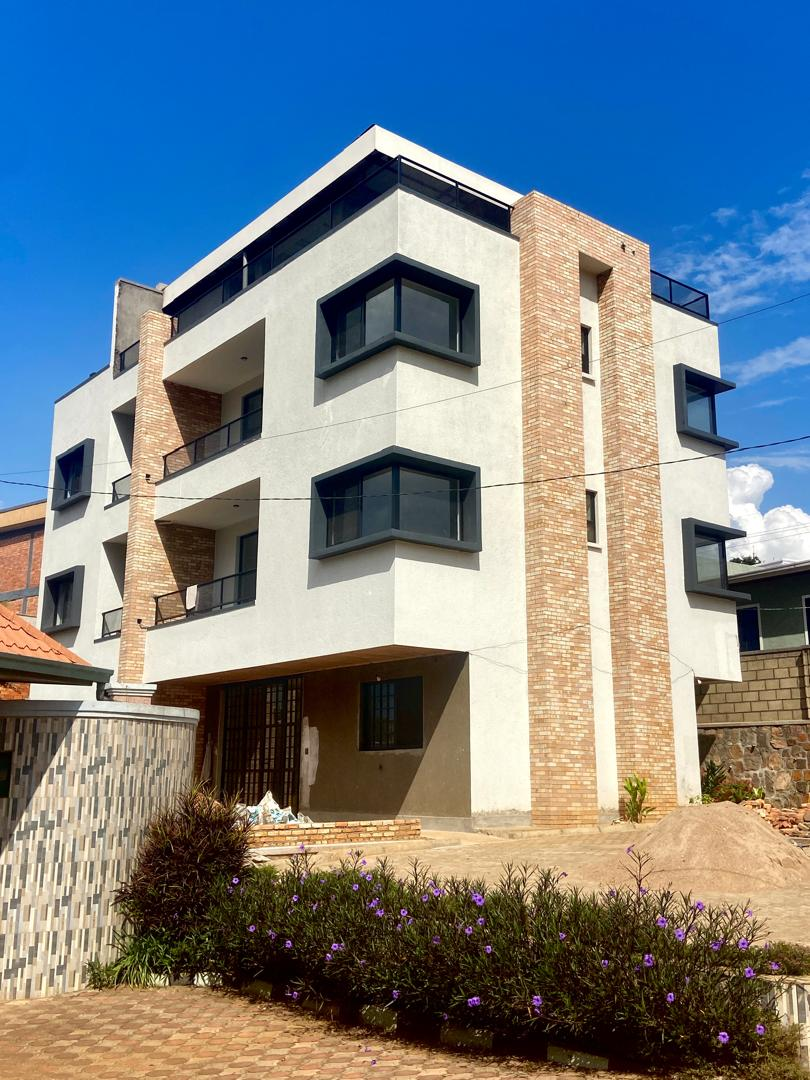
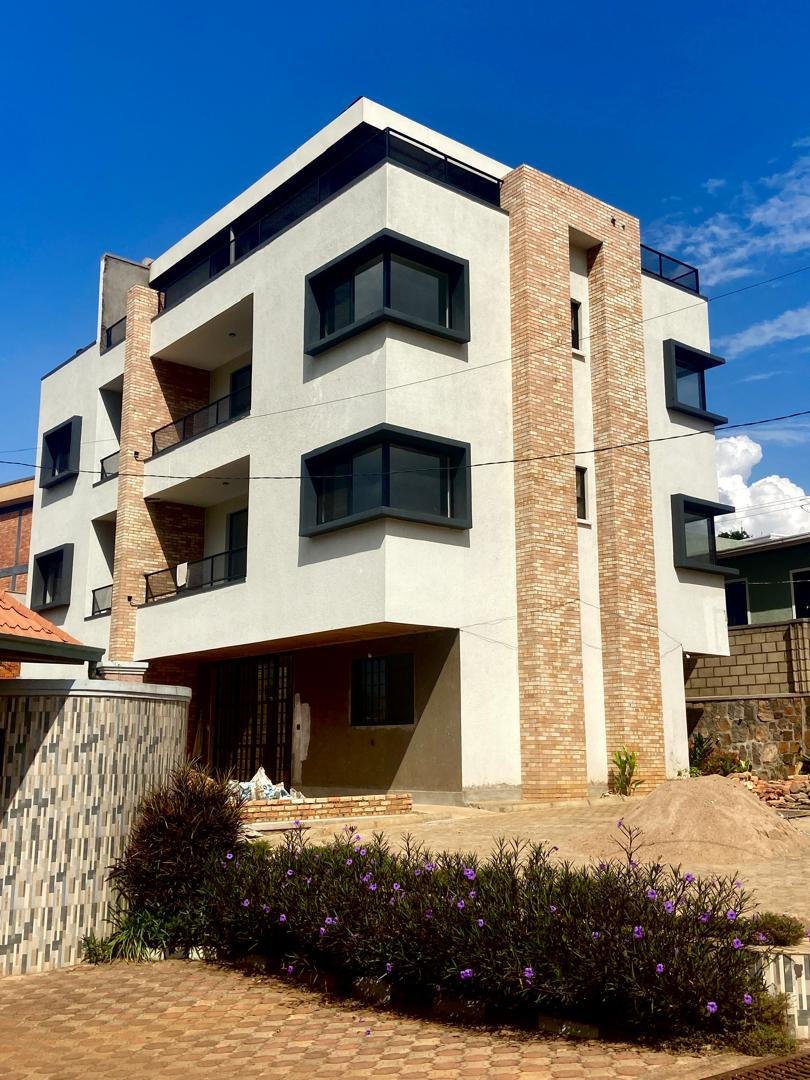
photos update

diff --git a/pages/about.tsx b/pages/about.tsx
@@ -1,0 +1,40 @@
+import React, { useEffect } from 'react'
+import Nav from '../components/nav'
+import Header from '../components/header'
+import DreamHome from '../components/dream-home'
+import About from '../components/about'
+import Partners from '../components/partners'
+import Service from '../components/service'
+import Footer from '../components/footer'
+import AccomplishedPojects from '../components/accomplished-projects'
+import OnGoingProjects from '../components/ongoing-projects'
+import { Divider } from '@chakra-ui/core'
+
+const AboutPage: React.FC = () => {
+  useEffect(() => {
+    const el = document.getElementById('about')
+    if (el) {
+      const navbar = document.querySelector('nav')
+      const navbarHeight = navbar ? navbar.clientHeight : 70
+      const targetPosition = el.getBoundingClientRect().top + window.pageYOffset - navbarHeight
+      window.scrollTo({ top: targetPosition, behavior: 'smooth' })
+    }
+  }, [])
+
+  return (
+    <>
+      <Nav />
+      <Header />
+      <DreamHome />
+      <About />
+      <Partners />
+      <Service />
+      <AccomplishedPojects />
+      <OnGoingProjects />
+      <Divider mt="24" />
+      <Footer />
+    </>
+  )
+}
+
+export default AboutPage

diff --git a/pages/footer.tsx b/pages/footer.tsx
@@ -1,0 +1,40 @@
+import React, { useEffect } from 'react'
+import Nav from '../components/nav'
+import Header from '../components/header'
+import DreamHome from '../components/dream-home'
+import About from '../components/about'
+import Partners from '../components/partners'
+import Service from '../components/service'
+import Footer from '../components/footer'
+import AccomplishedPojects from '../components/accomplished-projects'
+import OnGoingProjects from '../components/ongoing-projects'
+import { Divider } from '@chakra-ui/core'
+
+const FooterPage: React.FC = () => {
+  useEffect(() => {
+    const el = document.getElementById('footer')
+    if (el) {
+      const navbar = document.querySelector('nav')
+      const navbarHeight = navbar ? navbar.clientHeight : 70
+      const targetPosition = el.getBoundingClientRect().top + window.pageYOffset - navbarHeight
+      window.scrollTo({ top: targetPosition, behavior: 'smooth' })
+    }
+  }, [])
+
+  return (
+    <>
+      <Nav />
+      <Header />
+      <DreamHome />
+      <About />
+      <Partners />
+      <Service />
+      <AccomplishedPojects />
+      <OnGoingProjects />
+      <Divider mt="24" />
+      <Footer />
+    </>
+  )
+}
+
+export default FooterPage

diff --git a/pages/service.tsx b/pages/service.tsx
@@ -1,0 +1,40 @@
+import React, { useEffect } from 'react'
+import Nav from '../components/nav'
+import Header from '../components/header'
+import DreamHome from '../components/dream-home'
+import About from '../components/about'
+import Partners from '../components/partners'
+import Service from '../components/service'
+import Footer from '../components/footer'
+import AccomplishedPojects from '../components/accomplished-projects'
+import OnGoingProjects from '../components/ongoing-projects'
+import { Divider } from '@chakra-ui/core'
+
+const ServicePage: React.FC = () => {
+  useEffect(() => {
+    const el = document.getElementById('service')
+    if (el) {
+      const navbar = document.querySelector('nav')
+      const navbarHeight = navbar ? navbar.clientHeight : 70
+      const targetPosition = el.getBoundingClientRect().top + window.pageYOffset - navbarHeight
+      window.scrollTo({ top: targetPosition, behavior: 'smooth' })
+    }
+  }, [])
+
+  return (
+    <>
+      <Nav />
+      <Header />
+      <DreamHome />
+      <About />
+      <Partners />
+      <Service />
+      <AccomplishedPojects />
+      <OnGoingProjects />
+      <Divider mt="24" />
+      <Footer />
+    </>
+  )
+}
+
+export default ServicePage

diff --git a/pages/header.tsx b/pages/header.tsx
@@ -1,0 +1,38 @@
+import React, { useEffect } from 'react'
+import Nav from '../components/nav'
+import Header from '../components/header'
+import DreamHome from '../components/dream-home'
+import About from '../components/about'
+import Partners from '../components/partners'
+import Service from '../components/service'
+import Footer from '../components/footer'
+import AccomplishedPojects from '../components/accomplished-projects'
+import OnGoingProjects from '../components/ongoing-projects'
+import { Divider } from '@chakra-ui/core'
+
+const HeaderPage: React.FC = () => {
+  useEffect(() => {
+    const el = document.getElementById('header')
+    if (el) {
+      // header is at top; scroll to top smoothly
+      window.scrollTo({ top: 0, behavior: 'smooth' })
+    }
+  }, [])
+
+  return (
+    <>
+      <Nav />
+      <Header />
+      <DreamHome />
+      <About />
+      <Partners />
+      <Service />
+      <AccomplishedPojects />
+      <OnGoingProjects />
+      <Divider mt="24" />
+      <Footer />
+    </>
+  )
+}
+
+export default HeaderPage